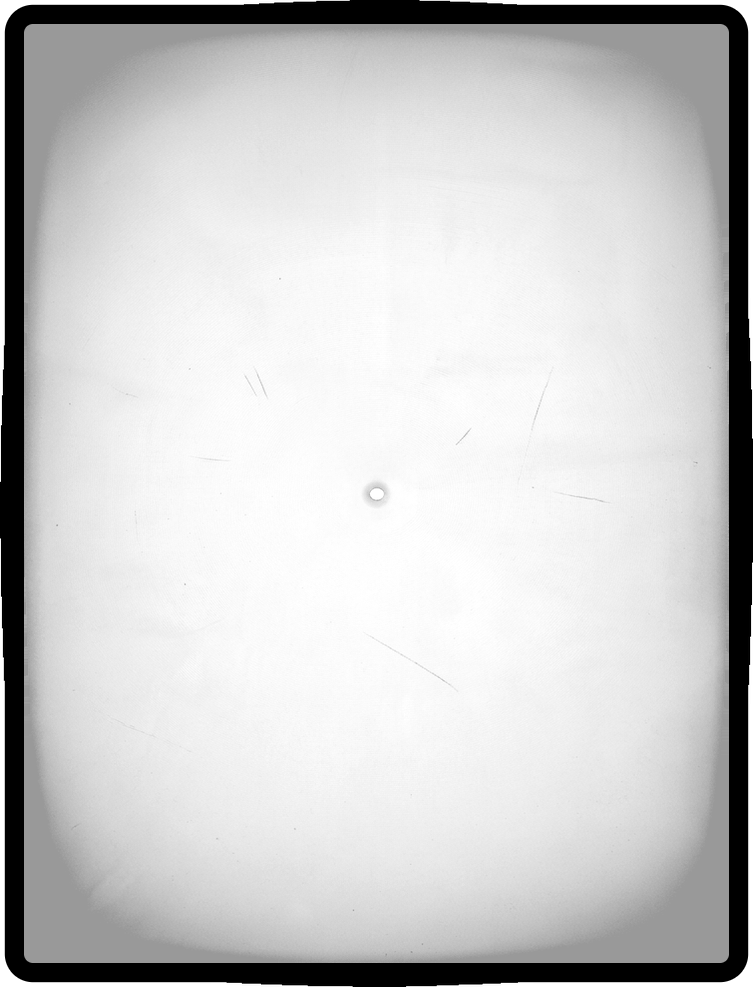
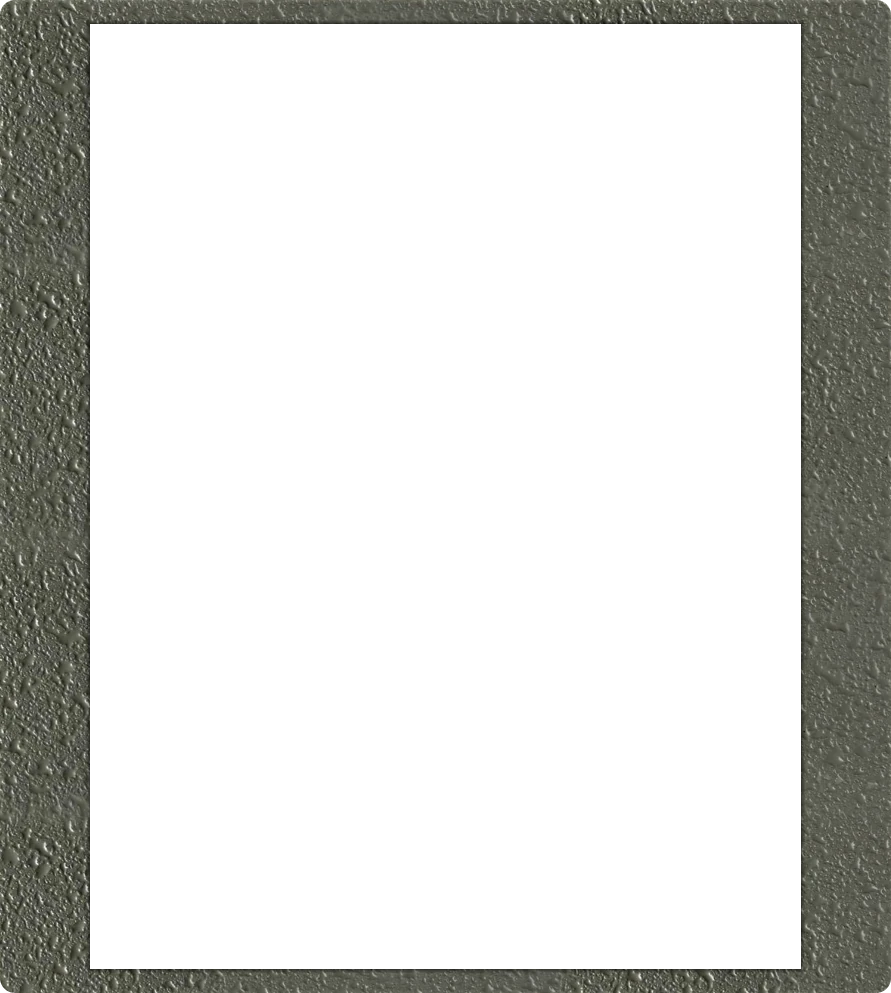
homepage: rama de metal vopsit pe marginea afișului + pistei, laterale peste perforație, lampa +1½ diafragmă
- geamul = exact afișul + pista (237×315), colțuri drepte, fără textura de geam
- rama 297×331: laterale 30 px (acoperă perforația), sus/jos 8 px, umbră fină
- suprafața: vopsea „ciocănită” gri-oliv din poza lui Ștefan
  (scripts/rama-metal.py, scripts/rama-metal-sursa.png)
- lampa +1½ diafragmă (×2,83; centru R ×3,8 · G ×3,6 · B ×3,2), varianta
  neutră la fel; trepidația obturatorului 0,96–1

Claude-Session: https://claude.ai/code/session_01YNnLgFquUfGQgHvsc6Tt5y

diff --git a/containers/LandingHero/landing.module.css b/containers/LandingHero/landing.module.css
@@ -60,11 +60,14 @@
        vizor.webp și vizor-mask.webp: scripts/vizor-gros.py 295 373 "" (dacă
        schimbi aici mărimile sau afișul, rulează din nou scriptul).
        Varianta și mai fină (12 px, perforația se vede și lateral): /?rama=fina.
-       02.11, 17:40: mult mai subțire — 8 px de jur împrejur (251 × 329), mai
-       îngustă decât pelicula (289): perforația se vede și lângă ramă.
-       scripts/vizor-gros.py 251 329 "" public/assets/ui */
-    --vf-w:      251px;
-    --vf-h:      329px;
+       02.11, 17:40: 8 px de jur împrejur (251 × 329).
+       02.11, 18:15: RAMA DE METAL VOPSIT — geamul e exact afișul + pista
+       (237 × 315, colțuri drepte, fără textura de geam: tot afișul se vede);
+       lateralele de 30 px acoperă perforația (297 > 289), sus și jos 8 px.
+       Suprafața: vopsea „ciocănită” gri-oliv, din poza lui Ștefan.
+       scripts/rama-metal.py 297 331 237 315 public/assets/ui */
+    --vf-w:      297px;
+    --vf-h:      331px;
     /* pasul galeriei = un cadru: afiș + 36 px de peliculă neagră între cadre */
     --slot-h:    calc(var(--img-h) + 36px);
     --gallery-w: var(--strip-w);
@@ -550,7 +553,9 @@
 .vfGlass {
     position: absolute;
     inset: 0;
-    background: url("/assets/ui/vizor.webp?v=5") center / 100% 100% no-repeat;
+    background: url("/assets/ui/vizor.webp?v=7") center / 100% 100% no-repeat;
+    /* rama de metal stă puțin deasupra peliculei: o umbră fină sub ea */
+    filter: drop-shadow(0 1px 1.5px rgba(0, 0, 0, 0.45));
 }
 
 /* contorul „15 / 19” din ramă a fost scos (seria a cincea) */
@@ -633,10 +638,11 @@
      maro-chihlimbar translucid, perforația și cadrele vecine primesc puțină
      lumină, tot mai puțină cu cât sunt mai departe (.backlight).
    Tehnic: stratul .lamp e în color-dodge = câștig de lumină multiplicativ
-   (rezultat = culoare / (1 − lampă)); în centru R ×1,35 · G ×1,27 · B ×1,13,
-   la margine ~×1,05. Varianta neutră, de comparat: /?lumina=neutra.
-   Trepidația obturatorului la 24 fps: redusă la ~45% din cea de dinainte
-   (opacitatea lămpii între 0,87 și 1). */
+   (rezultat = culoare / (1 − lampă)). 02.11, 18:15: +1½ diafragmă (×2,83) —
+   în centru R ×3,8 · G ×3,6 · B ×3,2, la margine ~×3,0 (diferența centru –
+   margine rămâne ~⅓ de diafragmă). Varianta neutră: /?lumina=neutra.
+   Trepidația obturatorului la 24 fps: cu lampa mai puternică, opacitatea
+   variază doar între 0,96 și 1, ca pâlpâirea să rămână cât era. */
 .lamp {
     position: fixed;
     top: 50%;
@@ -648,28 +654,28 @@
     pointer-events: none;
     mix-blend-mode: color-dodge;
     background: radial-gradient(ellipse 72% 62% at 50% 50%,
-        rgb(66, 54, 30) 0%,
-        rgb(52, 43, 25) 30%,
-        rgb(34, 28, 17) 62%,
-        rgb(15, 13, 9) 100%);
-    -webkit-mask: url("/assets/ui/vizor-mask.webp?v=5") center / 100% 100% no-repeat;
-            mask: url("/assets/ui/vizor-mask.webp?v=5") center / 100% 100% no-repeat;
+        rgb(188, 184, 175) 0%,
+        rgb(183, 180, 174) 30%,
+        rgb(177, 175, 171) 62%,
+        rgb(170, 169, 168) 100%);
+    -webkit-mask: url("/assets/ui/vizor-mask.webp?v=7") center / 100% 100% no-repeat;
+            mask: url("/assets/ui/vizor-mask.webp?v=7") center / 100% 100% no-repeat;
     will-change: opacity;
     animation: shutter24 0.5s steps(1, end) infinite;
 }
 @keyframes shutter24 {
     0%      { opacity: 1;     }
-    8.333%  { opacity: 0.900; }
-    16.667% { opacity: 0.973; }
-    25%     { opacity: 0.883; }
+    8.333%  { opacity: 0.970; }
+    16.667% { opacity: 0.992; }
+    25%     { opacity: 0.965; }
     33.333% { opacity: 1;     }
-    41.667% { opacity: 0.928; }
-    50%     { opacity: 0.874; }
-    58.333% { opacity: 0.982; }
-    66.667% { opacity: 0.910; }
+    41.667% { opacity: 0.978; }
+    50%     { opacity: 0.962; }
+    58.333% { opacity: 0.995; }
+    66.667% { opacity: 0.973; }
     75%     { opacity: 1;     }
-    83.333% { opacity: 0.892; }
-    91.667% { opacity: 0.955; }
+    83.333% { opacity: 0.968; }
+    91.667% { opacity: 0.986; }
 }
 @media (prefers-reduced-motion: reduce) {
     .lamp { animation: none; }
@@ -698,11 +704,11 @@
         rgba(255, 142, 62, 0) 80%);
     -webkit-mask:
         linear-gradient(#000, #000),
-        url("/assets/ui/vizor-mask.webp?v=5") center / var(--vf-w) var(--vf-h) no-repeat;
+        url("/assets/ui/vizor-mask.webp?v=7") center / var(--vf-w) var(--vf-h) no-repeat;
     -webkit-mask-composite: xor;
             mask:
         linear-gradient(#000, #000),
-        url("/assets/ui/vizor-mask.webp?v=5") center / var(--vf-w) var(--vf-h) no-repeat;
+        url("/assets/ui/vizor-mask.webp?v=7") center / var(--vf-w) var(--vf-h) no-repeat;
             mask-composite: exclude;
     transition: opacity 0.6s ease;
 }
@@ -712,7 +718,7 @@
    căldura becului (cum era lampa înainte de 02.11, 17:40) */
 .luminaNeutra .lamp {
     background: radial-gradient(ellipse 72% 62% at 50% 50%,
-        rgb(54, 54, 54) 0%, rgb(44, 44, 44) 30%, rgb(29, 29, 29) 62%, rgb(13, 13, 13) 100%);
+        rgb(185, 185, 185) 0%, rgb(181, 181, 181) 30%, rgb(175, 175, 175) 62%, rgb(169, 169, 169) 100%);
 }
 .luminaNeutra .backlight {
     background: radial-gradient(ellipse 58% 50% at 50% 50%,
@@ -824,10 +830,10 @@
        afișele vecine și pista — negrul peliculei devine gri închis, iar sus
        și jos se stinge. Două straturi de mască, adunate: geamul + restul. */
     -webkit-mask:
-        url("/assets/ui/vizor-mask.webp?v=5") center / var(--vf-w) var(--vf-h) no-repeat,
+        url("/assets/ui/vizor-mask.webp?v=7") center / var(--vf-w) var(--vf-h) no-repeat,
         linear-gradient(to bottom, transparent 0, rgba(0, 0, 0, 0.72) 8%, rgba(0, 0, 0, 0.72) 92%, transparent 100%);
             mask:
-        url("/assets/ui/vizor-mask.webp?v=5") center / var(--vf-w) var(--vf-h) no-repeat,
+        url("/assets/ui/vizor-mask.webp?v=7") center / var(--vf-w) var(--vf-h) no-repeat,
         linear-gradient(to bottom, transparent 0, rgba(0, 0, 0, 0.72) 8%, rgba(0, 0, 0, 0.72) 92%, transparent 100%);
 }
 .gallery::-webkit-scrollbar { display: none; }

diff --git a/containers/LandingHero/index.tsx b/containers/LandingHero/index.tsx
@@ -428,7 +428,7 @@ export default function LandingHero() {
     const [expandedIdx, setExpandedIdx]     = useState<number | null>(null);
     const [lang, setLang]                   = useState<Lang>('ro');
     // variantele de comparație ale ramei:
-    //   /                — rama de 8 px (02.11, 17:40; înainte 30 px)
+    //   /                — rama de metal vopsit: laterale 30 px, sus/jos 8 px (02.11, 18:15)
     //   /?rama=fina      — rama de 12 px, în interiorul peliculei
     //   /?rama=paranteze — două paranteze despărțite (02.11, 15:34)
     const [rama, setRama]                   = useState<Rama>('groasa');

diff --git a/scripts/rama-metal.py b/scripts/rama-metal.py
@@ -1,0 +1,94 @@
+"""Rama-vizor din metal vopsit (Modul Regie / chat, 02.11.2026, 18:15).
+    python3 scripts/rama-metal.py LATIME INALTIME GEAM_L GEAM_I IESIRE/ [SUFIX]
+Scrie vizor{SUFIX}.webp (rama) și vizor-mask{SUFIX}.webp (geamul), la 3× (Retina),
+de LATIME × INALTIME px CSS, cu geamul GEAM_L × GEAM_I px CSS în centru.
+
+  • geamul = exact afișul + pista sonoră (237 × 315): niciun pixel de afiș
+    acoperit, colțuri drepte, fără textură de geam;
+  • rama: lateralele late (acoperă perforația), sus și jos subțire;
+  • suprafața: textura din poza lui Ștefan cu metal vopsit (scripts/rama-metal-sursa.png,
+    vopsea „ciocănită”, gri-oliv): lumina neuniformă din poză e netezită, iar
+    textura e repetată în oglindă, ca să nu se vadă îmbinări; 1 px de poză =
+    1 px de imagine (⅓ px CSS) — boabele vopselei au 2–4 px CSS;
+  • muchiile: colțurile exterioare rotunjite (5 px), o umbră fină pe marginea
+    geamului (grosimea tablei) și o lumină fină pe muchia exterioară de sus.
+Are nevoie de scipy."""
+import os
+import sys
+import numpy as np
+from PIL import Image
+from scipy import ndimage as nd
+
+W_CSS, H_CSS, GW, GH = (float(x) for x in sys.argv[1:5])
+out = sys.argv[5]
+suffix = sys.argv[6] if len(sys.argv) > 6 else ''
+S = 3                       # pixeli de imagine pe px CSS
+R_OUT = 5                   # raza colțurilor exterioare, px CSS
+
+here = os.path.dirname(os.path.abspath(sys.argv[0]))
+src = np.array(Image.open(f'{here}/rama-metal-sursa.png').convert('RGB')).astype(float) / 255
+src = src[10:, :, :]                                   # fără eticheta albă din colțul de sus
+
+# lumina din poză (mai închisă în stânga) → netezită: textura / lumina locală
+lum = src.mean(axis=2)
+low = nd.gaussian_filter(lum, 45)
+flat = src * (lum.mean() / np.maximum(low, 1e-3))[..., None]
+
+W, H = int(round(W_CSS * S)), int(round(H_CSS * S))
+# petice din poză, luate din locuri diferite și cusute cu o trecere scurtă
+# (24 px), ca rama să fie mai mare decât poza fără să se vadă repetiția
+th, tw, _ = flat.shape
+PH, PW, OV = min(300, th), min(600, tw), 24
+rng = np.random.default_rng(23)
+def ramp(n):
+    w = np.ones(n)
+    w[:OV] = np.linspace(0.02, 1, OV)
+    w[-OV:] = np.minimum(w[-OV:], np.linspace(1, 0.02, OV))
+    return w
+win = ramp(PH)[:, None] * ramp(PW)[None, :]
+acc = np.zeros((H + PH, W + PW, 3))
+wsum = np.zeros((H + PH, W + PW))
+for y in range(-OV, H, PH - OV):
+    for x in range(-OV, W, PW - OV):
+        oy = rng.integers(0, th - PH + 1)
+        ox = rng.integers(0, tw - PW + 1)
+        patch = flat[oy:oy + PH, ox:ox + PW]
+        ys, xs = y + OV, x + OV
+        acc[ys:ys + PH, xs:xs + PW] += patch * win[..., None]
+        wsum[ys:ys + PH, xs:xs + PW] += win
+tex = (acc / np.maximum(wsum, 1e-6)[..., None])[OV:OV + H, OV:OV + W]
+
+yy, xx = np.mgrid[0:H, 0:W] + 0.5
+cx, cy = W / 2, H / 2
+def rrect_sd(hx, hy, r):
+    qx = np.maximum(np.abs(xx - cx) - (hx - r), 0)
+    qy = np.maximum(np.abs(yy - cy) - (hy - r), 0)
+    return np.hypot(qx, qy) - r
+
+sd_out = rrect_sd(W / 2, H / 2, R_OUT * S)          # < 0 în interiorul conturului exterior
+gw, gh = GW * S, GH * S
+sd_in = np.maximum(np.abs(xx - cx) - gw / 2, np.abs(yy - cy) - gh / 2)   # < 0 în geam (colțuri drepte)
+outer = np.clip(0.5 - sd_out, 0, 1)
+inside = np.clip(0.5 - sd_in, 0, 1)
+alpha = outer * (1 - inside)
+
+# muchiile: umbra de pe marginea geamului (grosimea tablei, ~1,5 px CSS) …
+d_in = np.clip(sd_in / (1.5 * S), 0, 1)               # 0 pe marginea geamului → 1 la 1,5 px
+shade = 0.55 + 0.45 * d_in
+# … și o lumină fină pe muchia exterioară, mai mult sus decât jos
+d_out = np.clip(-sd_out / (1.2 * S), 0, 1)
+top = np.clip(1 - (yy / H) * 2, 0, 1)
+light = 1 + (1 - d_out) * (0.10 + 0.18 * top)
+rgb = np.clip(tex * (shade * light)[..., None], 0, 1)
+
+rgba = np.zeros((H, W, 4), np.uint8)
+rgba[..., :3] = (rgb * 255).round().astype(np.uint8)
+rgba[..., 3] = (alpha * 255).round().astype(np.uint8)
+Image.fromarray(rgba, 'RGBA').save(f'{out}/vizor{suffix}.webp', quality=90, method=6)
+
+m = np.zeros((H, W, 4), np.uint8)
+m[..., :3] = 255
+m[..., 3] = (inside * 255).round().astype(np.uint8)
+Image.fromarray(m, 'RGBA').save(f'{out}/vizor-mask{suffix}.webp', lossless=True, method=6)
+print(f'rama {W_CSS:.0f}×{H_CSS:.0f} px CSS, geamul {GW:.0f}×{GH:.0f}; '
+      f'lateral {(W_CSS - GW) / 2:.0f} px, sus/jos {(H_CSS - GH) / 2:.0f} px')
